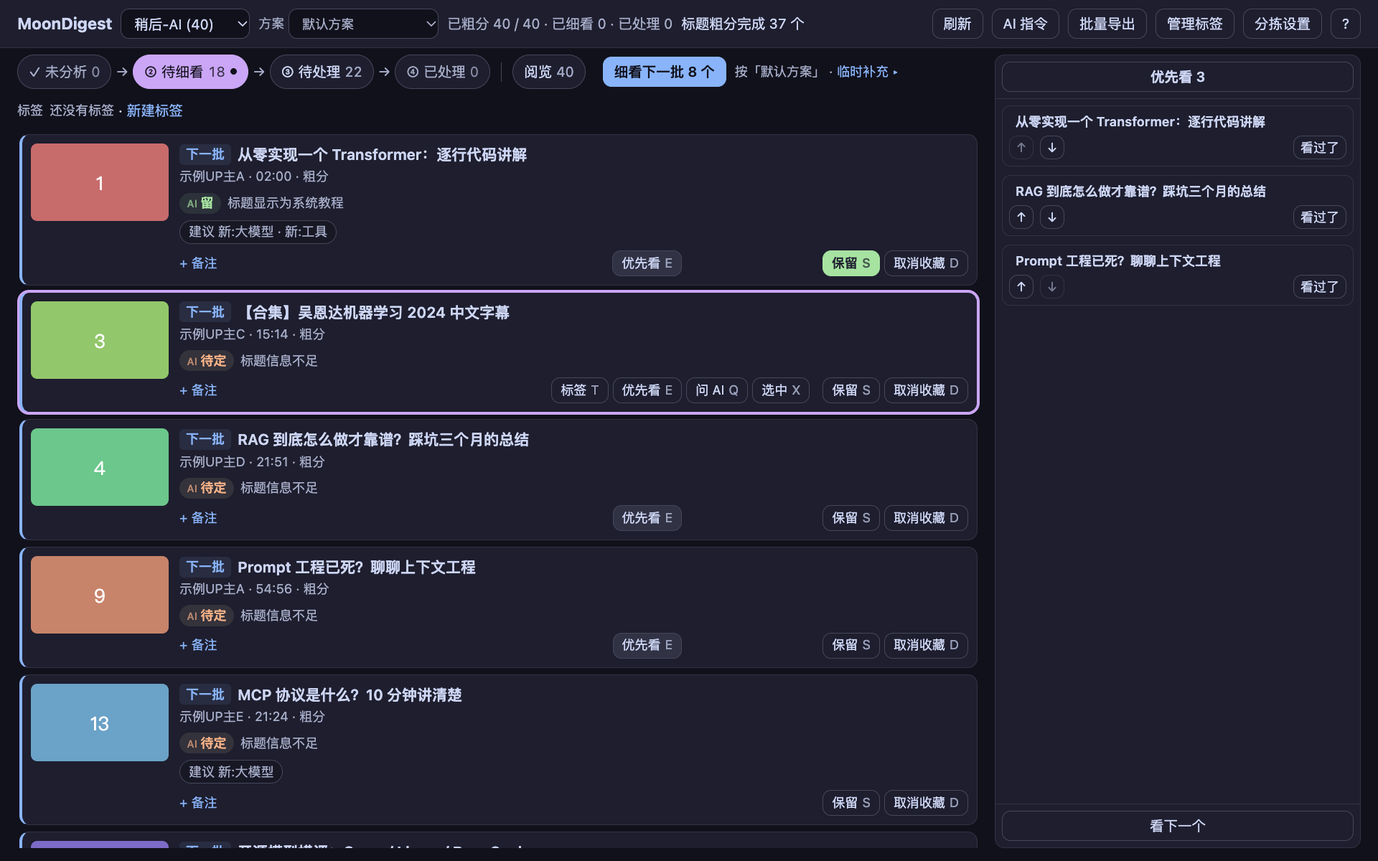
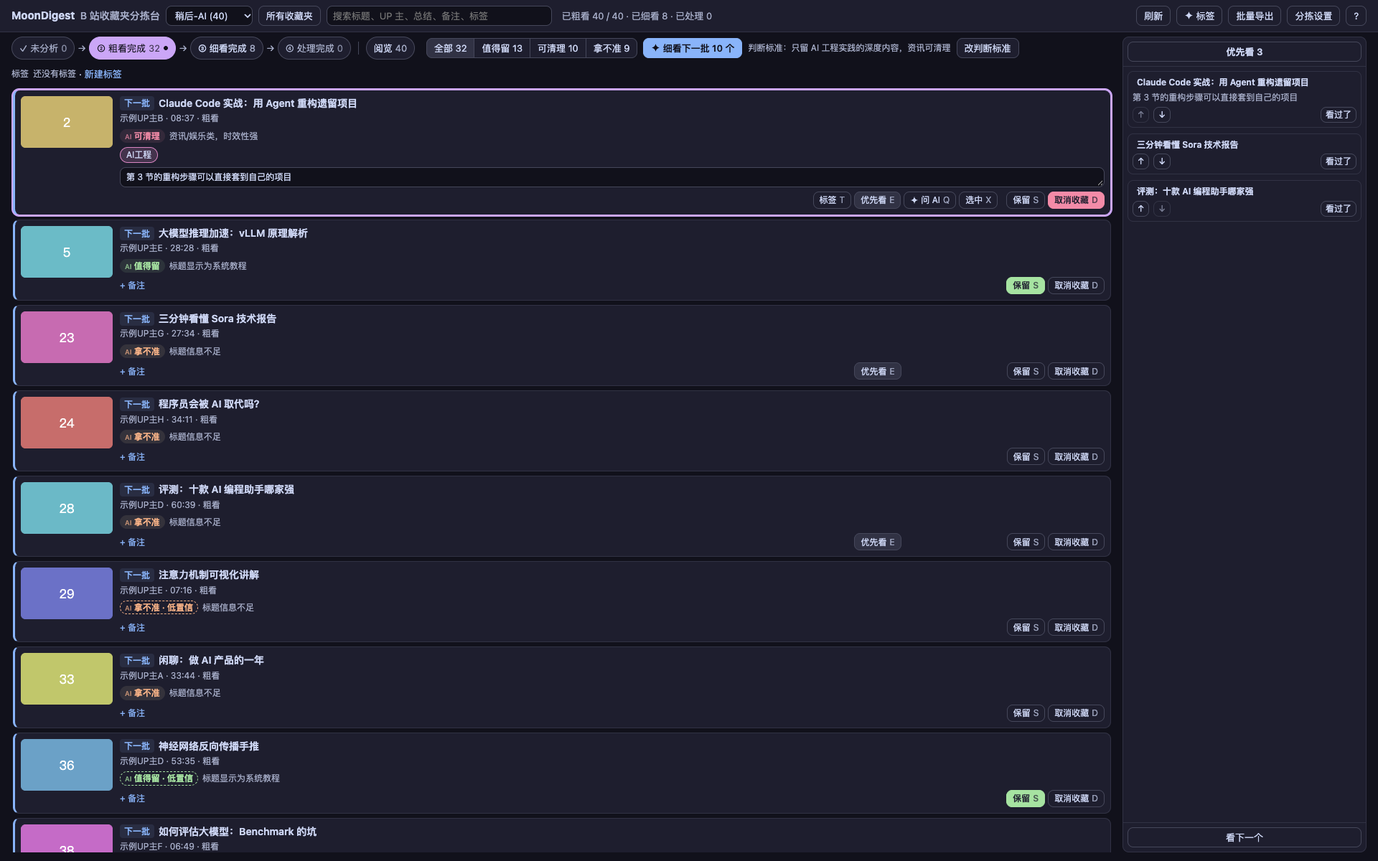
Rewrite the README for 2.0.0 and bump the version
The README was patched PR by PR and had grown long and partly stale. It now
leads with what the extension does, a quick start, then 读 / 理 / 记, with the
triage page explained as two layers (判断标准 × 标签) and four steps. Triage
screenshots retaken from the dev mock.

diff --git a/extension/triage/dev/mock-chrome.js b/extension/triage/dev/mock-chrome.js
@@ -15,7 +15,7 @@
     // Old scheme data, so the page's one-time migration has something to fold: 稍后-AI (seen, unmapped) gets the
     // default criteria, 学习 its scheme's; tags become AI工程 + 工具 + 数学, s-ai merges into t-ai, s-unused is dropped.
     triage_schemes: [
-      { id: "default", name: "默认方案", criteria: "只保留 AI 工程实践相关的深度内容，资讯和娱乐可以删", tags: [{ id: "t-ai", name: "AI工程", description: "大模型实践", color: "#da86c3" }, { id: "t-tool", name: "工具", color: "#298287" }] },
+      { id: "default", name: "默认方案", criteria: "只留 AI 工程实践的深度内容，资讯可清理", tags: [{ id: "t-ai", name: "AI工程", description: "大模型实践", color: "#da86c3" }, { id: "t-tool", name: "工具", color: "#298287" }] },
       { id: "s-study", name: "学习", criteria: "只留系统课程", tags: [{ id: "s-math", name: "数学", color: "#dc6d2d" }, { id: "s-ai", name: "AI工程", color: "#3590a0" }, { id: "s-unused", name: "没用到", color: "#8595ea" }] }
     ],
     triage_folder_scheme: { 1002: "s-study" },

diff --git a/README.md b/README.md
@@ -7,181 +7,160 @@
 收藏了却没看的视频，用 AI 帮你读完、整理好，挑出真正要看的。
 
 [![Chrome MV3](https://img.shields.io/badge/Chrome-MV3-4285F4?logo=googlechrome&logoColor=white)](https://developer.chrome.com/docs/extensions/develop/migrate/what-is-mv3)
-[![Version](https://img.shields.io/badge/version-1.4.0-7c6cf2)](extension/manifest.json)
+[![Version](https://img.shields.io/badge/version-2.0.0-7c6cf2)](extension/manifest.json)
 [![Platforms](https://img.shields.io/badge/platforms-Bilibili%20%7C%20YouTube-fb7299)](#功能)
 [![License](https://img.shields.io/badge/license-GPL--3.0-blue)](LICENSE)
 
 </div>
 
-## 为什么
+长视频很难判断值不值得看，收藏夹也越存越多、越来越少打开。MoonDigest 是一个 Chrome 扩展，做三件事：
 
-长视频很难判断值不值得看，收藏夹也越存越多、越来越少打开。MoonDigest 做三件事：
+- **读**：把视频变成能读的文字。看字幕、让 AI 总结、接着追问，或者在专注模式里边看边读。
+- **理**：把 B 站收藏夹交给分拣台。AI 先看标题、再读字幕，告诉你每个视频值不值得留；你决定保留还是取消收藏，再把真想看的排进「优先看」。
+- **记**：给视频写一句自己的备注，AI 对话按视频存好，都能导出成 Markdown。用 Obsidian 的话可以直接写进库里，这一项可选。
 
-- **读**：把视频变成可以读的文字。看字幕、让 AI 总结、接着追问，在专注模式里边看边读。
-- **理**：把一个收藏夹交给分拣台，AI 先粗看、再细看，你决定保留还是取消收藏；真想看的放进「优先看」，一个个看完。
-- **记**：给视频留一句自己的备注，AI 对话按视频存进视频记录页，都能导出成 Markdown。用 Obsidian 的话，也可以直接写进库里，这是可选项。
-
-数据都留在你的浏览器里。
+所有数据都留在你的浏览器里，没有作者的服务器。
 
 <p align="center">
-  <img src="docs/images/hero-sidepanel.png" alt="B 站视频页右侧的 AI 侧边栏，显示一键 AI 总结的结构化结果（一句话总结、带时间戳的要点），下方是常用追问和输入框" width="900">
+  <img src="docs/images/hero-sidepanel.png" alt="B 站视频页右侧的 AI 侧边栏，显示 AI 总结的结构化结果（一句话总结、带时间戳的要点），下方是常用追问和输入框" width="900">
 </p>
+
+## 快速开始
+
+1. **安装**：从 [Releases](https://github.com/PathGao/MoonDigest/releases/latest) 下载 `moondigest-vX.Y.Z-chrome.zip`，解压到一个以后不会移动的文件夹。打开 `chrome://extensions`，打开右上角「开发者模式」，点「加载已解压的扩展程序」，选这个文件夹。
+2. **配置 AI**：插件图标 → 设置 → 「AI 模型平台」 → 「添加平台」。选一个预设会自动填好地址和模型，再填 API Key，点底部「保存」。浏览器弹窗问能否访问这个地址时点允许。支持任意 OpenAI 兼容的平台。
+3. **试一下**：打开任意 B 站或 YouTube 视频，点插件图标里的 **✦ AI 总结**。
+
+带 ✦ 的按钮会调用 AI，花你自己的 API 额度；其他按钮都不会。
 
 ## 功能
 
-功能分三档，用到哪档配哪档。设置页从上到下是：基础、笔记格式、进阶 1 分拣台（只有入口和 B 站页面标记开关，分拣设置在分拣台里改）、进阶 2 Obsidian、数据与存储、高级（调试日志）、项目地址。改动后底部出现保存条，一次保存全部。
+### 读：字幕、AI 总结、专注模式
 
-| 档位 | 能做什么 | 平台 |
+- **字幕**：支持人工、AI 和自动生成的字幕。YouTube 可以设默认语言，没有时用机器翻译。没有字幕的视频，AI 改用简介和热门评论来总结。
+- **AI 侧边栏**：一键 AI 总结，之后可以点常用追问或直接提问。换视频时侧边栏自动跟过去，上一个视频的对话折叠在顶部。
+- **专注模式**：页面只留视频和字幕，字幕跟着播放滚动，点一句就跳到那里。右上角四个按钮（AI 总结、主题、设置、退出）读的时候会变淡，鼠标移到页面顶部就恢复。
+- **导出**：复制 Markdown，下载 SRT 或 TXT。笔记带干净的链接、封面、作者、时长、发布日期和标签。
+
+### 理：收藏夹分拣台（仅 B 站）
+
+<p align="center">
+  <img src="docs/images/triage-light.png" alt="收藏夹分拣台的粗看完成步骤：上方是值得留、可清理、拿不准的筛选和细看下一批按钮，卡片标着 AI 判断，右侧是优先看清单" width="900">
+</p>
+
+在 B 站页面点插件图标 → **分拣台**。第一次打开先勾选要分拣的收藏夹；MoonDigest 只读取你勾选的，没勾的连内容都不读。
+
+#### 两层：判断标准 × 标签
+
+分拣台替你回答两个问题，各用一层：
+
+| 层 | 回答什么 | 标准由谁定 | 结果 |
+|---|---|---|---|
+| 判断标准 | 这个视频**留不留** | 每个收藏夹写一句判断标准 | AI 判断：**值得留** / **可清理** / **拿不准** |
+| 标签 | 留下的**怎么分、以后怎么找** | 每个标签写一句说明 | 你的标签，比如「入门」「进阶」 |
+
+```
+收藏夹「AI 学习」  判断标准：只留 AI 工程实践的深度内容，资讯可清理
+   ├─ AI 判断 ─▶ 值得留 / 可清理 / 拿不准 ─▶ 你决定：保留 / 取消收藏
+   └─ 标签 ───▶ 入门（零基础能看懂的）  进阶（要先会写代码的）  硬核（讲原理和源码的）
+```
+
+- **判断标准**写在粗看、细看按钮旁边。不写时，AI 从收藏夹名和简介推测用途，所以「纯娱乐」收藏夹里的好段子也会是「值得留」。写一句会更准，比如「只留能跟着做的菜谱，探店和吃播可清理」。
+- **标签**属于各自的收藏夹，每个收藏夹最多 10 个。一个视频可以打多个。点顶部 **✦ 标签**：「管理」里改名、写说明、删除；「批量打」用一句话让 AI 给一批视频打标签（每次最多新建 5 个），检查后再应用。
+- 两层互不影响：打标签不算处理，AI 判断也不会动你的标签。
+
+#### 四个步骤
+
+步骤只表示 AI 看到了哪一步；AI 判断是每个步骤里的筛选。
+
+| 步骤 | 里面是什么 | 你做什么 |
 |---|---|---|
-| 基础 · 读字幕 + AI 总结 | 抓字幕、专注模式、导出、AI 侧边栏 | B 站、YouTube |
-| 进阶 1 · 收藏夹分拣台 | 把一个收藏夹交给 AI 粗看和细看，你来决定保留或取消收藏，挑出要看的放进优先看 | 仅 B 站 |
-| 进阶 2 · Obsidian（可选） | 不用 Obsidian 也能全部导出成 Markdown；用的话可以单个或整个收藏夹直接写进库里 | B 站、YouTube |
+| ① 未分析 | AI 还没看过的 | 点 **✦ 标题粗看**，AI 只看标题和简介，几十个一批，便宜 |
+| ② 粗看完成 | AI 看过标题的 | 拿不准的点 **✦ 细看下一批**（读字幕，每批 10 个）；有把握的可以直接批量保留或取消收藏 |
+| ③ 细看完成 | AI 读过字幕的，判断最可靠 | 看总结和要点，批量或一个个保留、取消收藏 |
+| ④ 处理完成 | 你处理过的 | 后悔了可以重新收藏 |
 
-### 基础 · 读字幕 + AI 总结
+- **保留**只在 MoonDigest 里标记，B 站收藏夹不变；**取消收藏**会真的在 B 站取消，按 U 可以撤销。
+- **阅览**：整个收藏夹一页看完，同样能按 AI 判断筛选。这里粗看和细看的结果混在一起，所以批量操作只对你选中的视频。
+- **所有收藏夹**：把勾选的收藏夹合在一起看和搜索。第一次要逐个加载，之后只核对有变化的。
+- **已取消收藏**：视频离开了你勾选的所有收藏夹（在 B 站取消收藏、收藏夹被删、或你取消勾选），它的 AI 总结、备注和标签先放这里，你导出后再清理，不会悄悄丢掉。
+- **优先看**：按 E 把真想看的放进右侧清单，排好顺序，点「看下一个」，看完点「看过了」。
+- **和 B 站同步**：打开收藏夹时自动同步，提示新增、移除和失效的视频。B 站的列表和搜索页上，分拣过的视频会带一个小标记。
 
-- **字幕**：人工、AI 和自动生成字幕；YouTube 可设默认语言，没有时用机器翻译。没有字幕的视频用简介和热门评论代替。
-- **专注模式**：页面只留视频和字幕，字幕跟随播放滚动，点句子跳转。顶栏有 AI 按钮（打开侧边栏做 AI 总结）、主题切换和设置面板（排版、章节栏、字幕语言、视频信息和简介）。
-- **导出**：复制 Markdown，下载 SRT 或 TXT，属性含干净链接、封面、作者、时长、发布日期和标签。
-- **AI 侧边栏**：任意 OpenAI 兼容平台。AI 总结、管理追问（输入框上方的常用追问，设置页同名一段可改），切换视频自动跟随。发送按钮在生成中变成「停止」，出错时可重试。
-- **导出对话**：侧边栏的「导出对话」菜单可以复制、下载 .md 或写入 Obsidian。写入 Obsidian 写进这个视频笔记的 AI 问答段，还没有视频笔记就新建一篇。每条回复下只有「复制单条回复」。
-- **视频记录**：侧边栏的历史弹层只列当前视频的对话，点「全部」或设置页「数据与存储」里的「打开视频记录」打开视频记录页。视频记录页按视频列出全部对话、分拣台 AI 总结和你的备注，每条的备注点一下就能改（Enter 保存，Shift+Enter 换行）。可以搜索、继续问、下载 .md、写入 Obsidian 或删除，写入 Obsidian 时 B 站视频还没有视频笔记就先生成一篇完整的再写 AI 问答段，YouTube 写成单独的对话笔记；「清空全部」只删 AI 对话，不动备注和分拣结果。
+### 记：备注、视频记录、Obsidian
+
+- **备注**：在侧边栏、分拣台卡片或视频记录页给视频写一句自己的话，导出时一起带上。
+- **视频记录**：按视频列出所有 AI 对话、分拣台的 AI 总结和你的备注，可以搜索、继续问、下载 .md 或删除。
+- **批量导出**：分拣台里选范围（当前筛选、选中、优先看或整个收藏夹），导出一篇摘录或逐个视频笔记；也能导出 JSON 完整备份（不含密钥）和 CSV 表格。
+- **Obsidian（可选）**：不开也能全部复制、下载成 Markdown。开了以后通过 Obsidian 插件 Local REST API 写进库里，默认放在 `MoonDigest/bilibili/` 和 `MoonDigest/youtube/`，一个视频一篇笔记；写入过一次之后，新的 AI 问答会自动更新到笔记末尾。
 
 <p align="center">
   <img src="docs/images/history.png" alt="视频记录页：按视频列出对话、分拣台 AI 总结和备注，每条可继续问、下载 .md、写入 Obsidian 或删除" width="900">
 </p>
 
-### 进阶 1 · 收藏夹分拣台（仅 B 站）
-
-<p align="center">
-  <img src="docs/images/triage-light.png" alt="收藏夹分拣台：标题粗分后停在「② 待细看」，卡片标着「下一批」和 AI 判断，右侧优先看列表里有 3 个视频" width="900">
-</p>
-
-- **两段式 AI 分拣**：标题粗看把几十个标题分成 值得留 / 可清理 / 拿不准；字幕细看给每个视频一句话总结、要点和判断。判断都相对这个收藏夹的用途：按你写的一句判断标准，没写就按收藏夹名推测，所以娱乐收藏夹里的好段子也是「值得留」。AI 的判断带「AI」标记（AI 值得留、AI 可清理、AI 拿不准），你做的决定显示为「已保留」「已取消收藏」。
-- **判断标准**：每个收藏夹可以写一句（可选），粗看和细看都按它判。
-- **标签**：你自己的分类，属于各自的收藏夹，每个收藏夹至多 10 个，以后筛选、导出用。在「所有收藏夹」里各收藏夹的同名标签合成一个筛选。按 T 一个个打，批量打按 I，或点「标签」切到「批量打」。每个标签可以写一句说明，AI 批量打时按它判断。
-- **阅览**：整个收藏夹一页看完，卡片和其他页一样，也能按 AI 判断筛选、保留或取消收藏；批量只对选中的视频，因为这里粗看和细看的结果混在一起。
-- **找视频**：搜索框按标题、UP 主、AI 总结、备注和标签名筛选；点下拉框旁的「所有收藏夹」可以跨收藏夹找，同一个视频只出现一次并标出所在收藏夹。
-- **整理**：在分拣台里取消收藏（可撤销）、保留、打标签、写一句话笔记。打开时与 B 站同步，提示新增和失效的视频。
-- **优先看**：从留下的视频里挑出真要看的，排好顺序。「看下一个」打开第一个，看完点「看过了」移出清单，不影响收藏。
-- **B 站页面标记**：在 B 站的列表和搜索页上给分拣过的视频加标记。
-- **批量导出**：范围选当前筛选、选中、优先看或整个收藏夹；格式选一篇摘录（带笔记）或逐个视频笔记，也可以导出 JSON 完整备份（不含密钥）和 CSV 表格。
-
-### 进阶 2 · Obsidian（可选）
-
-不开这一档，所有内容照样可以复制或下载成 Markdown。开了以后，通过 Obsidian 插件 Local REST API 写入：一个视频一篇笔记（网页对话写成单独笔记）；分拣台可以整个收藏夹批量写，每个视频一篇，外加一篇索引。封面存进库里，离线也能显示。
-字幕笔记末尾带这个视频最近一段 AI 问答（设置里可关），侧边栏的「写入 Obsidian」也写进这一段；笔记已存在时再写入只替换这一段，其余内容不动，写入过之后每次回答完还会自动更新这一段。
-
-### 平台支持
-
-Chrome 和其他 Chromium 内核浏览器（只在 Chrome 上测试过），不支持 Firefox。网站支持 B 站视频页、稍后再看和 YouTube 视频页。
-
-## 安装
-
-两种装法任选其一。
-
-1. 获取扩展文件：
-   - **zip 包**：从 [Releases](https://github.com/PathGao/MoonDigest/releases/latest) 下载 `moondigest-vX.Y.Z-chrome.zip`，解压到一个以后不会移动的文件夹。
-   - **源码**：克隆本仓库。
-
-     ```bash
-     git clone https://github.com/PathGao/MoonDigest.git
-     ```
-
-2. 打开 `chrome://extensions`，打开右上角的“开发者模式”。
-3. 点“加载已解压的扩展程序”，选择 zip 解压出的文件夹，或仓库里的 `extension/` 目录。
-4. 装过商店版 Bilibili Obsidian Clipper 的话，先停用它，以免视频页出现重复按钮。
-
-### 更新
-
-这两种装法都不会自动更新。
-
-- **zip 包**：下载新版 zip，解压后用里面的文件覆盖原文件夹，再到 `chrome://extensions` 点 MoonDigest 卡片上的刷新按钮。一定要覆盖原文件夹：换一个文件夹加载，Chrome 会当成新扩展，原来的设置全部丢失。
-- **源码**：`git pull`，再到 `chrome://extensions` 点刷新按钮。
-
-## 快速开始
-
-1. **配置 AI 平台**：插件图标 → 设置 → “AI 模型平台” → “添加平台”。选预设会填好地址和默认模型，再填 API Key，点底部保存条的“保存”。浏览器弹窗请求访问该地址时点允许。
-2. **打开任意 B 站或 YouTube 视频**。
-3. **点 AI 总结**：播放器上的 AI 按钮、专注模式顶栏的 AI 按钮，或插件弹窗里的“AI 总结”。之后可以点输入框上方的追问或直接提问。
-
-更完整的使用教程正在写。
-
-<p align="center">
-  <img src="docs/images/options.png" alt="设置页基础档：字幕下载格式、时间戳和 YouTube 字幕语言，下方 AI 模型平台已配一个 DeepSeek" width="540">
-</p>
-
-## 使用收藏夹分拣台
-
-在 B 站页面点插件图标 → “打开 B 站收藏夹分拣台” → 选收藏夹。步骤按 AI 看到了哪一步排成四步：① 未分析 → ② 粗看完成 → ③ 细看完成 → ④ 处理完成，当前这一步的按钮跟在步骤后面：未分析点“标题粗看”；粗看完成里点“细看下一批 10 个”读字幕，拿不准和低置信的排在前面，有把握的也可以直接按 AI 判断批量取消收藏或保留；细看完成里按 AI 判断批量取消收藏或保留。
-
-AI 判断（值得留 / 可清理 / 拿不准）不决定视频在哪个步骤，而是粗看完成、细看完成里的筛选，每个步骤记住自己的筛选；筛选后，“细看下一批”和批量按钮只处理筛出来的视频。
-
-搜索框实时筛选当前视图（四步和阅览都生效），空格分隔的几个词都要命中，不区分大小写，和标签筛选叠加。下拉框旁的「所有收藏夹」按钮：已缓存的收藏夹立刻显示，再在后台按视频 ID 逐个核对，有变化或没缓存的按请求间隔重新加载，可暂停；这里不做粗看和细看（请在具体收藏夹里分拣），保留、标签、备注、优先看、问 AI 和批量导出照常，取消收藏时视频在几个收藏夹里会让你勾选从哪些收藏夹取消。
-
-按钮旁显示这个收藏夹的“判断标准”，点“改”或“写一句”修改，Enter 保存。卡片上的备注按 Enter 保存并收起，Shift+Enter 换行。“标签”按钮打开标签窗口：“管理”里可以改名、写说明、删除、新建这个收藏夹的标签（至多 10 个）；“批量打”用一句话让 AI 给一批视频加减标签（每次至多新建 5 个，且不超过收藏夹剩下的名额，按标签说明判断，不改 AI 判断），确认后才生效。两者都要在具体收藏夹里用。
+## 分拣台快捷键
 
 | 按键 | 作用 |
 |---|---|
-| `J` / `↓` | 下一个 |
-| `K` / `↑` | 上一个 |
-| `D` | 在 B 站取消收藏 |
+| `J` / `↓`、`K` / `↑` | 下一个、上一个 |
 | `S` | 保留 |
-| `T` | 打标签 |
-| `E` | 加入或移出「优先看」 |
-| `X` | 选中；粗看完成、细看完成的按钮只处理选中的 |
-| `O` / `Enter` | 打开视频 |
+| `D` | 在 B 站取消收藏（不弹确认，可撤销） |
 | `U` | 撤销 |
+| `X` | 选中；批量按钮只处理选中的 |
+| `T` | 打标签 |
 | `I` | 批量打标签 |
+| `E` | 加入或移出优先看 |
 | `Q` | 问 AI（在侧边栏打开这个视频） |
+| `O` / `Enter` | 打开视频 |
 | `/` | 搜索（Esc 清空） |
 | `?` | 快捷键帮助 |
 
-「已取消收藏」里只有 `I`、`/` 和 `?` 生效。
-
 <p align="center">
-  <img src="docs/images/triage-dark.png" alt="分拣台深色主题：同一个待细看列表和优先看面板" width="900">
+  <img src="docs/images/triage-dark.png" alt="分拣台深色主题：粗看完成步骤和优先看清单" width="900">
 </p>
 
-## 隐私与权限
+## 安装与更新
 
-- 所有设置、分拣结果和对话都存在浏览器本地的 `chrome.storage.local`。API Key 也存在这里，不会出现在导出文件里。
-- 插件只向这些地方发请求：B 站和 YouTube（含它们的封面图片服务器），你配置的 AI 平台，以及你本机的 Obsidian。没有作者的服务器，也没有统计。
-- AI 平台的地址是保存设置时按需申请的，只申请你填的那个地址。
+支持 Chrome 和其他 Chromium 内核浏览器（只在 Chrome 上测试过），不支持 Firefox。网站支持 B 站视频页、稍后再看和 YouTube 视频页。
+
+- **zip 包**：见上面的快速开始。也可以克隆本仓库，加载其中的 `extension/` 目录。
+- **更新**：下载新版 zip，解压后**覆盖原来的文件夹**，再到 `chrome://extensions` 点 MoonDigest 卡片上的刷新按钮。换一个文件夹加载，Chrome 会当成新扩展，原来的数据全部丢失。源码安装的话 `git pull` 后点刷新。
+- 装过商店版 Bilibili Obsidian Clipper 的话，先停用它，免得视频页出现重复按钮。
+
+## 隐私与数据
+
+- 设置、分拣结果、备注和对话都存在浏览器本地。API Key 也存在本地，不会出现在任何导出文件里。
+- 插件只连这些地方：B 站和 YouTube、你配置的 AI 平台、你本机的 Obsidian。没有作者的服务器，没有统计。
+- 分拣台只读取你勾选的收藏夹；为了列出可勾选的收藏夹，会读一次收藏夹的名称和数量。
+- 每类数据怎么保存、会不会自动删，都写在设置页的「数据与存储」里。字幕缓存和 AI 对话有上限，超出自动删最旧的；分拣结果、备注和标签不会自动删。
 
 | 权限 | 用途 |
 |---|---|
-| `storage`、`unlimitedStorage` | 在本地保存设置、分拣结果、字幕和对话缓存 |
-| `scripting` | 在视频页按需注入内容脚本（抓字幕、专注模式、播放器 AI 按钮） |
+| `storage`、`unlimitedStorage` | 在本地保存设置、分拣结果、字幕和对话 |
+| `scripting` | 在视频页按需注入脚本（抓字幕、专注模式、播放器 AI 按钮） |
 | `sidePanel` | 显示 AI 侧边栏 |
-| `cookies` | 读取 B 站的 `bili_jct`，用于在分拣台取消收藏等写操作 |
+| `cookies` | 读取 B 站的 `bili_jct`，用于在分拣台取消收藏 |
 | `declarativeNetRequest` | 给分拣台发往 B 站接口的请求加上 B 站的 Referer 和 Origin |
 | B 站、YouTube 域名 | 读取视频信息、字幕和评论，在 B 站页面显示分拣标记 |
 | `127.0.0.1`、`localhost` | 连接本机的 Obsidian Local REST API |
-| 可选：任意 http/https 地址 | 只在你添加 AI 平台时，针对那个平台的地址弹窗申请 |
+| 可选：任意 http/https 地址 | 只在你添加 AI 平台时，针对那个地址弹窗申请 |
 
 ## 常见问题
 
-**YouTube 提示“字幕接口限流（429）”**
+**「无字幕」和「字幕抓取失败」有什么区别？**
+「无字幕」是视频本身没有字幕，AI 会改用简介和热门评论总结。「字幕抓取失败」是有字幕但没拿到，通常是网络或限流，稍后重试即可。
 
-YouTube 短时间内收到太多请求时会暂时拒绝。插件会稍等重试一次，再改试文字稿接口（成功的字幕轨标为「文字稿」）。仍然失败就过几分钟再试；长时间不恢复时换个网络。
+**YouTube 提示「字幕接口限流（429）」**
+YouTube 短时间内收到太多请求时会暂时拒绝。插件会稍等重试，再换文字稿接口。仍然失败就过几分钟再试，长时间不恢复时换个网络。
 
-**“字幕抓取失败”和“无字幕”有什么区别？**
-
-“无字幕”是视频本身没有字幕，AI 会改用简介和热门评论总结。“字幕抓取失败”是有字幕但没拿到，通常是网络或限流，稍后重试即可。
-
-**YouTube 提示“该视频需要登录或年龄验证”**
-
-年龄限制、频道会员专享的视频，以及 YouTube 怀疑当前网络是自动程序时，都要求登录。插件用你页面里已登录的播放器取字幕，所以你能在 YouTube 正常播放的视频，一般都能拿到；会员专享视频需要你本人是会员。被当成自动程序时，换个网络或等一段时间。
+**YouTube 提示「该视频需要登录或年龄验证」**
+插件用你页面里已登录的播放器取字幕，你能在 YouTube 正常播放的视频一般都能拿到。会员专享视频需要你本人是会员。
 
 **为什么保存 AI 平台时浏览器会弹窗？**
-
-插件没有预先申请访问所有网站的权限。你添加一个 AI 平台时，它只申请那一个地址。拒绝后 AI 请求会失败，侧边栏会提示重新授权。
+插件没有预先申请访问所有网站，你添加一个 AI 平台时只申请那一个地址。拒绝后 AI 请求会失败，侧边栏会提示重新授权。
 
 **怎么连接 Obsidian？**
-
-1. 在 Obsidian 社区插件里安装并启用 **Local REST API with MCP**。
-2. 在它的设置里打开 **Enable Non-encrypted (HTTP) Server**，地址一般是 `http://127.0.0.1:27123`。
-3. 复制 API Key，填进 MoonDigest 设置页“进阶 2 · Obsidian（可选）”里的地址和 Key，打开开关并保存。
+在 Obsidian 社区插件里装好 **Local REST API with MCP**，打开 **Enable Non-encrypted (HTTP) Server**（地址一般是 `http://127.0.0.1:27123`），复制 API Key，填进设置页「进阶 2 · Obsidian（可选）」，打开开关并保存。
 
 ## 开发
 
@@ -190,61 +169,48 @@ YouTube 短时间内收到太多请求时会暂时拒绝。插件会稍等重试
 ```
 extension/
 ├── manifest.json
-├── sites.js           站点注册表：B 站和 YouTube 的视频信息、字幕、评论抓取
-├── note.js            笔记生成：Markdown、frontmatter、SRT、TXT
-├── content.js         视频页内的字幕抓取、专注模式、播放器 AI 按钮（字幕显示在插件弹窗里）
-├── background.js      后台 service worker：AI 请求、Obsidian 写入、权限
-├── sidepanel.*        AI 侧边栏
-├── popup.*            插件弹窗
-├── options.*          设置页
-├── badges.*           B 站页面上的分拣标记
-├── tokens.css         共享的颜色、字号和间距变量（含深色主题）
-├── triage/            收藏夹分拣台页面和后台接口（triage-bg.js）
-├── history/           视频记录页
-└── dev-sidepanel/     侧边栏的开发预览
+├── sites.js        B 站和 YouTube 的视频信息、字幕、评论抓取
+├── note.js         笔记生成：Markdown、frontmatter、SRT、TXT
+├── content.js      视频页：字幕抓取、专注模式、播放器 AI 按钮
+├── background.js   后台：AI 请求、Obsidian 写入、权限、旧数据清理
+├── sidepanel.*     AI 侧边栏
+├── popup.*         插件弹窗
+├── options.*       设置页
+├── badges.*        B 站页面上的分拣标记
+├── limits.js       各类数据的上限，和设置页「数据与存储」共用
+├── tokens.css      共享的颜色、字号、间距（含深色主题）
+├── triage/         收藏夹分拣台页面和后台接口（triage-bg.js）
+├── history/        视频记录页
+└── dev-sidepanel/  侧边栏的开发预览
 ```
 
-### 自检
+自检：
 
 ```bash
 for f in extension/*.selftest.js extension/triage/*.selftest.js; do node "$f" || break; done
 ```
 
-### 不装插件预览页面
+不装插件预览页面：在 `extension/` 下起静态服务（`python3 -m http.server 8000`），打开 `/triage/triage.html` 或 `/history/history.html`，会自动加载各自 `dev/mock-chrome.js` 里的假数据。侧边栏先运行 `node extension/dev-sidepanel/build.mjs`，再打开 `/dev-sidepanel/index.html`。
 
-```bash
-# 分拣台和视频记录页：在 extension/ 下起静态服务，打开 /triage/triage.html 或 /history/history.html，会自动加载各自 dev/mock-chrome.js 的假数据
-cd extension && python3 -m http.server 8000
+打包：`python3 scripts/build_release.py`，产物在 `release/` 下。README 的版本徽章和 `manifest.json` 的版本不一致时打包会失败。推送 `v` 开头的标签会由 GitHub Actions 自动打包并发布 Release。
 
-# 侧边栏：先生成预览页，再打开 /dev-sidepanel/index.html
-node extension/dev-sidepanel/build.mjs
-```
-
-### 打包
-
-```bash
-python3 scripts/build_release.py
-```
-
-产物在 `release/` 下；传一个目录参数可改输出位置。README 的版本徽章和 manifest 版本不一致时打包会失败。
-
-### YouTube 字幕的取法
-
-做法参照 yt-dlp：读页面播放器的字幕轨；地址要求校验参数（PO token）时，从播放器已发出的字幕请求里取，没有就把字幕开关短暂切换一次让播放器发出请求。拿不到时依次退回安卓客户端、嵌入式播放器（年龄限制）和文字稿接口。这依赖播放器的内部实现，YouTube 改版后需要跟进。
+YouTube 字幕的取法参照 yt-dlp：读页面播放器的字幕轨；需要校验参数（PO token）时，从播放器已发出的字幕请求里取。拿不到时依次退回安卓客户端、嵌入式播放器和文字稿接口。这依赖播放器的内部实现，YouTube 改版后需要跟进。
 
 ## 路线图
 
+- 问 AI：用一句话描述需求，AI 从收藏夹里挑出带理由的视频清单，你再决定怎么处理
 - YouTube 播放列表的批量阅览
 - 上架 Chrome 应用商店
 
 ## 贡献
 
-欢迎提 [issue](https://github.com/PathGao/MoonDigest/issues)。报 bug 时请写清楚视频链接、浏览器版本和复现步骤。提 PR 前请先跑一遍上面的自检。
+欢迎提 [issue](https://github.com/PathGao/MoonDigest/issues)。报 bug 时请写清楚视频链接、浏览器版本和复现步骤。提 PR 前请先跑一遍自检。
 
 ## 致谢
 
 - 基于 [haixiong1997/Bilibili-Obsidian-Clipper](https://github.com/haixiong1997/Bilibili-Obsidian-Clipper)（MIT）。
 - YouTube 字幕的取法参照 [yt-dlp](https://github.com/yt-dlp/yt-dlp)。
+- 配色来自 [Catppuccin](https://github.com/catppuccin/catppuccin)（MIT）。
 
 ## 许可
 
